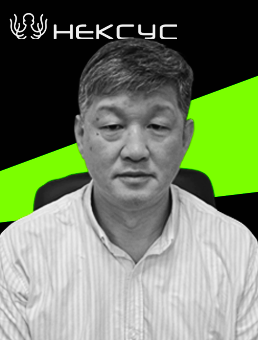
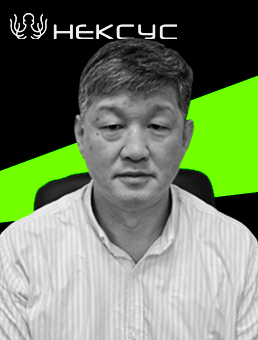
purposes (e.g., syncing with SVG maps). - `document_url`: URL to a document related to the item. - `is_ru`: Flag indicating if the item is specific to Russia. - `sort_order`: Used to order items within a dictionary. - `is_active`: Flag indicating if the item is active. - `created_atfeat`(layout and 
when- the Add record important was notice created for and Russian last residents updated regarding.

 G###ND Initial, Data G:
ANIThe, and table is i populatedG withND tokens items
 such as- different stages Update Zen channel of funding information ( ande.g link., '
pre- Add_seed', new CSS 'seed class for'), statuses footer alerts (
e-.g Adjust., column ' widthsdraft and', content ' alignmentapproved in'), footer types
 of

diff --git a/public/assets/css/style.css b/public/assets/css/style.css
@@ -10032,3 +10032,6 @@ a.icon-socials:hover {
     transform: scaleY(-1);     /* переворот только фона */
     z-index: -1;               /* чтобы не перекрывать контент */
 }
+.alert-footer {
+    background-color: var(--color-surface-dark);
+    border-color: var(--color-surface-dark-2); }

diff --git a/resources/views/layouts/guest/footer.blade.php b/resources/views/layouts/guest/footer.blade.php
@@ -133,36 +133,33 @@
 
         <div class="footer-bottom mt-0 border-top pt-4" style="border-color: rgba(255,255,255,0.08) !important;">
             <div class="row align-items-start mb-20">
-                <div class="col-12 col-md-4 mb-20 mb-md-0 text-center text-md-start">
-                    <div class="text-start d-inline-block">
-                        <p class="text-lg title-follow neutral-0 mb-0">
-                            {{ __('Нативные токены платформы (UTILITY)') }}
-                        </p>
-                        <p class="small neutral-100 text-left">{{ __('Стандарт GNDst-1 (расширенный ERC | TRC)') }}</p>
-                        <p class="small neutral-700 text-left">{{ __('GND (Utility токен ГАНИМЕД) ') }}</p>
-                        <p class="small neutral-700 text-left">{{ __('GANI (Governance токен - управление) ') }}</p>
-                        <p class="small neutral-700 text-left">{{ __('iGND (Токен программы смягчения инвестиционных рисков)') }}</p>
+                <div class="col-12 col-md-6 mb-20 mb-md-0 text-center text-md-start">
+                    <div  class="alert alert-footer">
+                        <p class="neutral-400 uppercase text-md">{{ __('Важное уведомление для резидентов РФ') }}</p>
+                        <p class="neutral-600 mb-0 small">{{ __('GND, GANI, iGND  — технические токены протокола ГАНИМЕД, используемые исключительно для обеспечения работы блокчейн‑инфраструктуры. Они не подлежат прямой продаже, покупке или иному обороту резидентам Российской Федерации в соответствии с российским законодательством (ФЗ‑259 «О цифровых финансовых активах»).') }}</p>
                     </div>
                 </div>
-                <div class="col-12 col-md-4 mb-20 mb-md-0 text-center text-md-start">
-                    <h5 class="neutral-0 mb-10 text-18-semibold">{{ __('Канал Дзен') }}</h5>
-                    <p class="text-sm neutral-600 mb-15">{{ __('Новости и материалы о цифровых финансах и финтехе') }}</p>
+                <div class="col-12 col-md-3 mb-20 mb-md-0 text-center text-md-start">
+                    <h5 class="neutral-0 mb-10 text-18-semibold">{{ __('Канал Дзен от авторов НЕКСУС') }}</h5>
                     <a href="https://dzen.ru/digital_fintech" target="_blank" rel="noopener noreferrer" class="btn btn-brand-4-medium hover-up">
                         {{ __('Перейти в канал') }}
                         <svg width="18" height="18" viewBox="0 0 24 24" fill="none" xmlns="http://www.w3.org/2000/svg" class="ml-1" style="vertical-align: -0.2em;">
                             <path d="M14 5l7 7-7 7M3 12h16" stroke="currentColor" stroke-width="2" stroke-linecap="round" stroke-linejoin="round"/>
                         </svg>
                     </a>
+                    <p class="text-sm neutral-600 mb-15">{{ __('Новости и материалы о цифровых финансах и финтехе') }}</p>
+
                 </div>
-                <div class="col-12 col-md-4 text-center text-md-start">
+                <div class="col-12 col-md-3 text-center text-md-start">
                     <h5 class="neutral-0 mb-10 text-18-semibold">{{ __('Канал Telegram') }}</h5>
-                    <p class="text-sm neutral-600 mb-15">{{ __('Официальный канал NEXUS — анонсы и обновления') }}</p>
                     <a href="https://t.me/dipp_NEXUS" target="_blank" rel="noopener noreferrer" class="btn btn-brand-4-medium hover-up">
                         {{ __('Перейти в канал') }}
                         <svg width="18" height="18" viewBox="0 0 24 24" fill="none" xmlns="http://www.w3.org/2000/svg" class="ml-1" style="vertical-align: -0.2em;">
                             <path d="M14 5l7 7-7 7M3 12h16" stroke="currentColor" stroke-width="2" stroke-linecap="round" stroke-linejoin="round"/>
                         </svg>
                     </a>
+                    <p class="text-sm neutral-600 mb-15">{{ __('Официальный канал NEXUS — анонсы и обновления') }}</p>
+
                 </div>
             </div>
             <div class="row align-items-center mb-20 pb-3" style="border-bottom: 1px solid rgba(255,255,255,0.08);">
